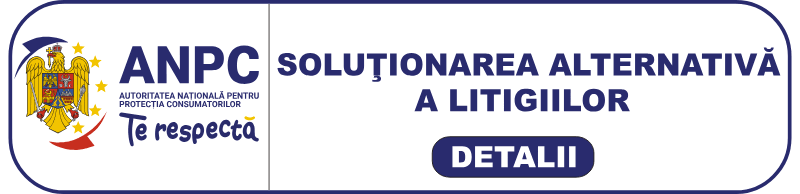
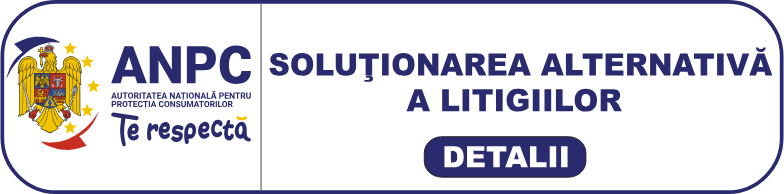
T19f: the pictogram cut to its frame, without the white around it
The ANPC file had white margins on the sides and white corners outside
its rounded frame, which showed as a white outline on the dark pages.
The image is now cut to the frame with transparent corners; the CSS
rounding is gone.

Claude-Session: https://claude.ai/code/session_01CKPmTBzeT8BEhfNuTX8cGa

diff --git a/src/components/AnpcSal.tsx b/src/components/AnpcSal.tsx
@@ -7,13 +7,14 @@ export const ANPC_SAL_URL = 'https://anpc.ro/ce-este-sal/';
 /**
  * The official ANPC pictogram for alternative dispute resolution (SAL), which a site selling to
  * consumers shows where it can be seen (ANPC Order 449/2022): 250 px wide, linking to ANPC. The
- * image is ANPC's own file, in Romanian in both languages; the alternative text follows the app.
+ * image is ANPC's own file (cut to its frame, the corners outside it transparent), in Romanian in
+ * both languages; the alternative text follows the app.
  */
 export function AnpcSal() {
   const { t } = useI18n();
   return (
     <a className={styles.link} href={ANPC_SAL_URL} target="_blank" rel="noopener noreferrer">
-      <img className={styles.img} src="/anpc-sal.png" width={250} height={61} alt={t('legal.anpcSal')} />
+      <img className={styles.img} src="/anpc-sal.png" width={250} height={62} alt={t('legal.anpcSal')} />
     </a>
   );
 }

diff --git a/src/components/AnpcSal.module.css b/src/components/AnpcSal.module.css
@@ -10,6 +10,4 @@
   width: 250px;
   max-width: 100%;
   height: auto;
-  /* The pictogram's own frame is rounded: its white corners stay inside it on a dark page. */
-  border-radius: 8px;
 }

diff --git a/docs/TASKS.md b/docs/TASKS.md
@@ -732,7 +732,7 @@ Note: nicio migrare, niciun pachet nou. **Lista** `docs/LAUNCH_CHECK.md`: fiecar
 
 ### T19f — Simbolul ANPC pentru SAL ✅
 
-Cerut de Eduard pe 18 oct 2026, după reverificare. Pictograma oficială ANPC „Soluționarea alternativă a litigiilor” (fișierul ANPC, adus de Eduard: anpc.ro nu se deschide din mediul de lucru, probabil doar din România), lată de 250 px, cu link spre `https://anpc.ro/ce-este-sal/` într-o filă nouă: în subsolul paginii de prezentare, sub documentele legale, și în Cont → Documente legale la client și la service (unde se cumpără raportul de istoric). Componenta `AnpcSal`, imaginea `public/anpc-sal.png`; textul alternativ e tradus, imaginea rămâne în română (e a ANPC). Teste: `e2e/public` (subsolul: linkul, imaginea încărcată, 250 px), `e2e/help` (în Cont la client și service, nu la admin), verificarea de accesibilitate. **Decizii:** fără pictograma SOL: platforma europeană de soluționare online a litigiilor s-a închis pe 20 iulie 2025; avocatul confirmă (și dacă mai trebuie pusă undeva în aplicația din magazine). Fără pachete noi, fără migrare.
+Cerut de Eduard pe 18 oct 2026, după reverificare. Pictograma oficială ANPC „Soluționarea alternativă a litigiilor” (fișierul ANPC, adus de Eduard: anpc.ro nu se deschide din mediul de lucru, probabil doar din România; tăiat pe ramă, cu colțurile din afara ei transparente, ca să nu apară un contur alb pe fundalul închis), lată de 250 px, cu link spre `https://anpc.ro/ce-este-sal/` într-o filă nouă: în subsolul paginii de prezentare, sub documentele legale, și în Cont → Documente legale la client și la service (unde se cumpără raportul de istoric). Componenta `AnpcSal`, imaginea `public/anpc-sal.png`; textul alternativ e tradus, imaginea rămâne în română (e a ANPC). Teste: `e2e/public` (subsolul: linkul, imaginea încărcată, 250 px), `e2e/help` (în Cont la client și service, nu la admin), verificarea de accesibilitate. **Decizii:** fără pictograma SOL: platforma europeană de soluționare online a litigiilor s-a închis pe 20 iulie 2025; avocatul confirmă (și dacă mai trebuie pusă undeva în aplicația din magazine). Fără pachete noi, fără migrare.
 
 ### T19e — Lansarea: domeniul, plățile reale, CAPTCHA, adminul, copiile de siguranță
 
